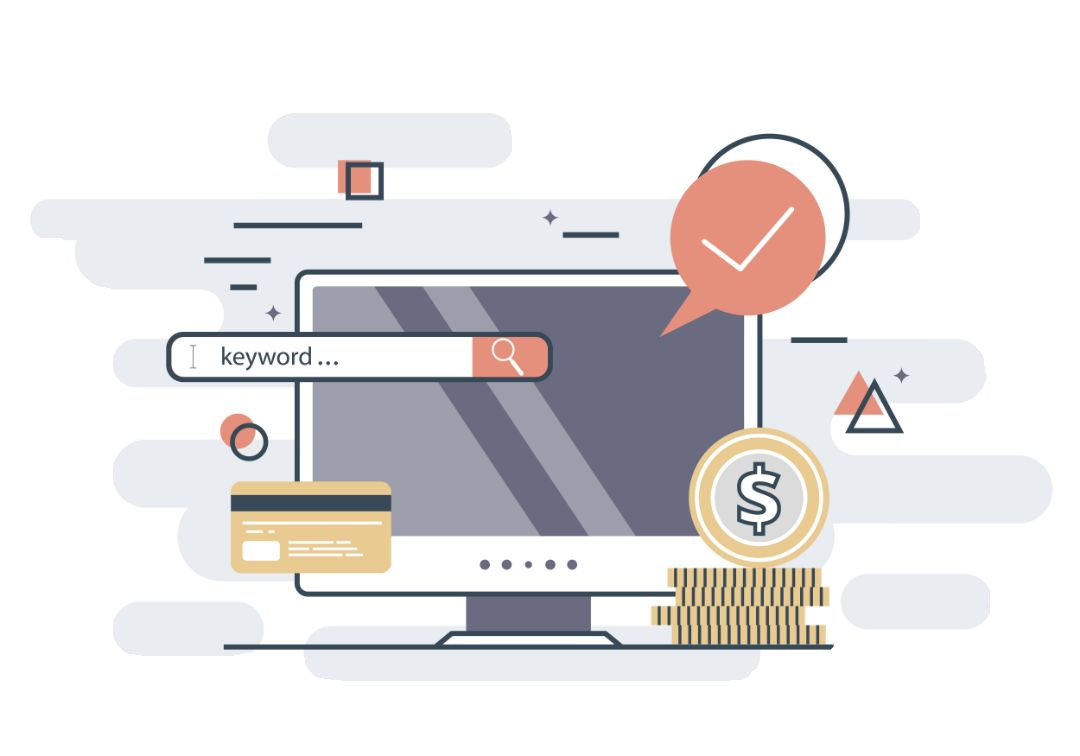
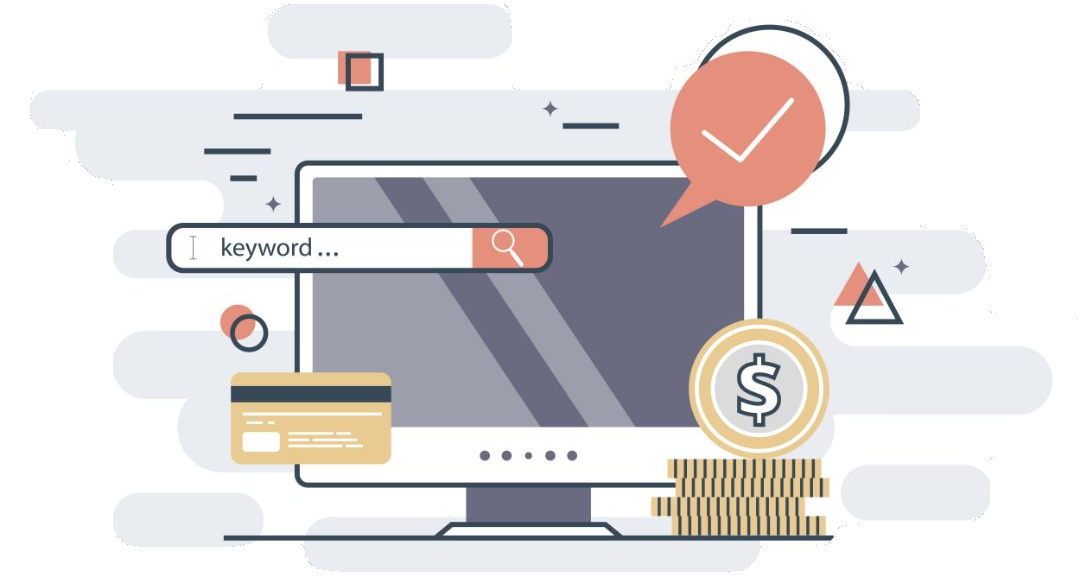
Fixed some image sizing. Updated some hyperlinks. Changed bottom bar to be Opsonion Blue.

Changed region(s): [[0.1528, 0.0296, 0.8556, 0.9461], [0.5194, 0.207, 0.5806, 0.2365], [0.4889, 0.1774, 0.5194, 0.207]]

diff --git a/src/app/home/home.component.html b/src/app/home/home.component.html
@@ -11,7 +11,7 @@
               Join quick for the best quality and cheapest fees! 
           </p>
           <p class="gap-xy">
-            <a class="btn btn-round btn-outline-dark mw-150" href="#">Learn more</a>
+            <a class="btn btn-round btn-outline-dark mw-150" href="#BetterFeatures">Learn more</a>
             <a class="btn btn-round btn-outline-dark mw-150" href="#">Sign up</a>
           </p>
         </div>
@@ -25,7 +25,7 @@
   </header>
 
 <!-- 3 Better Features  -->
-  <section class="section bg-gray h-fullscreen">
+  <section id="BetterFeatures" class="section bg-gray h-fullscreen">
     <canvas class="constellation h-fullscreen" data-color="rgba(32,85,236,0.3)" data-radius="300"></canvas>
     <div class="container position-static">
       <div class="h-100 row align-items-center">
@@ -165,7 +165,7 @@
 
   <!-- Subscribe -->
 
-  <section class="section text-white" style="background-color: #56a9ef;">
+  <section class="section text-white" style="background-color: #2055ec;">
     <div class="container text-center">
 
       <p class="small-4 text-uppercase ls-2 fw-600 opacity-70">Get Connected</p>
